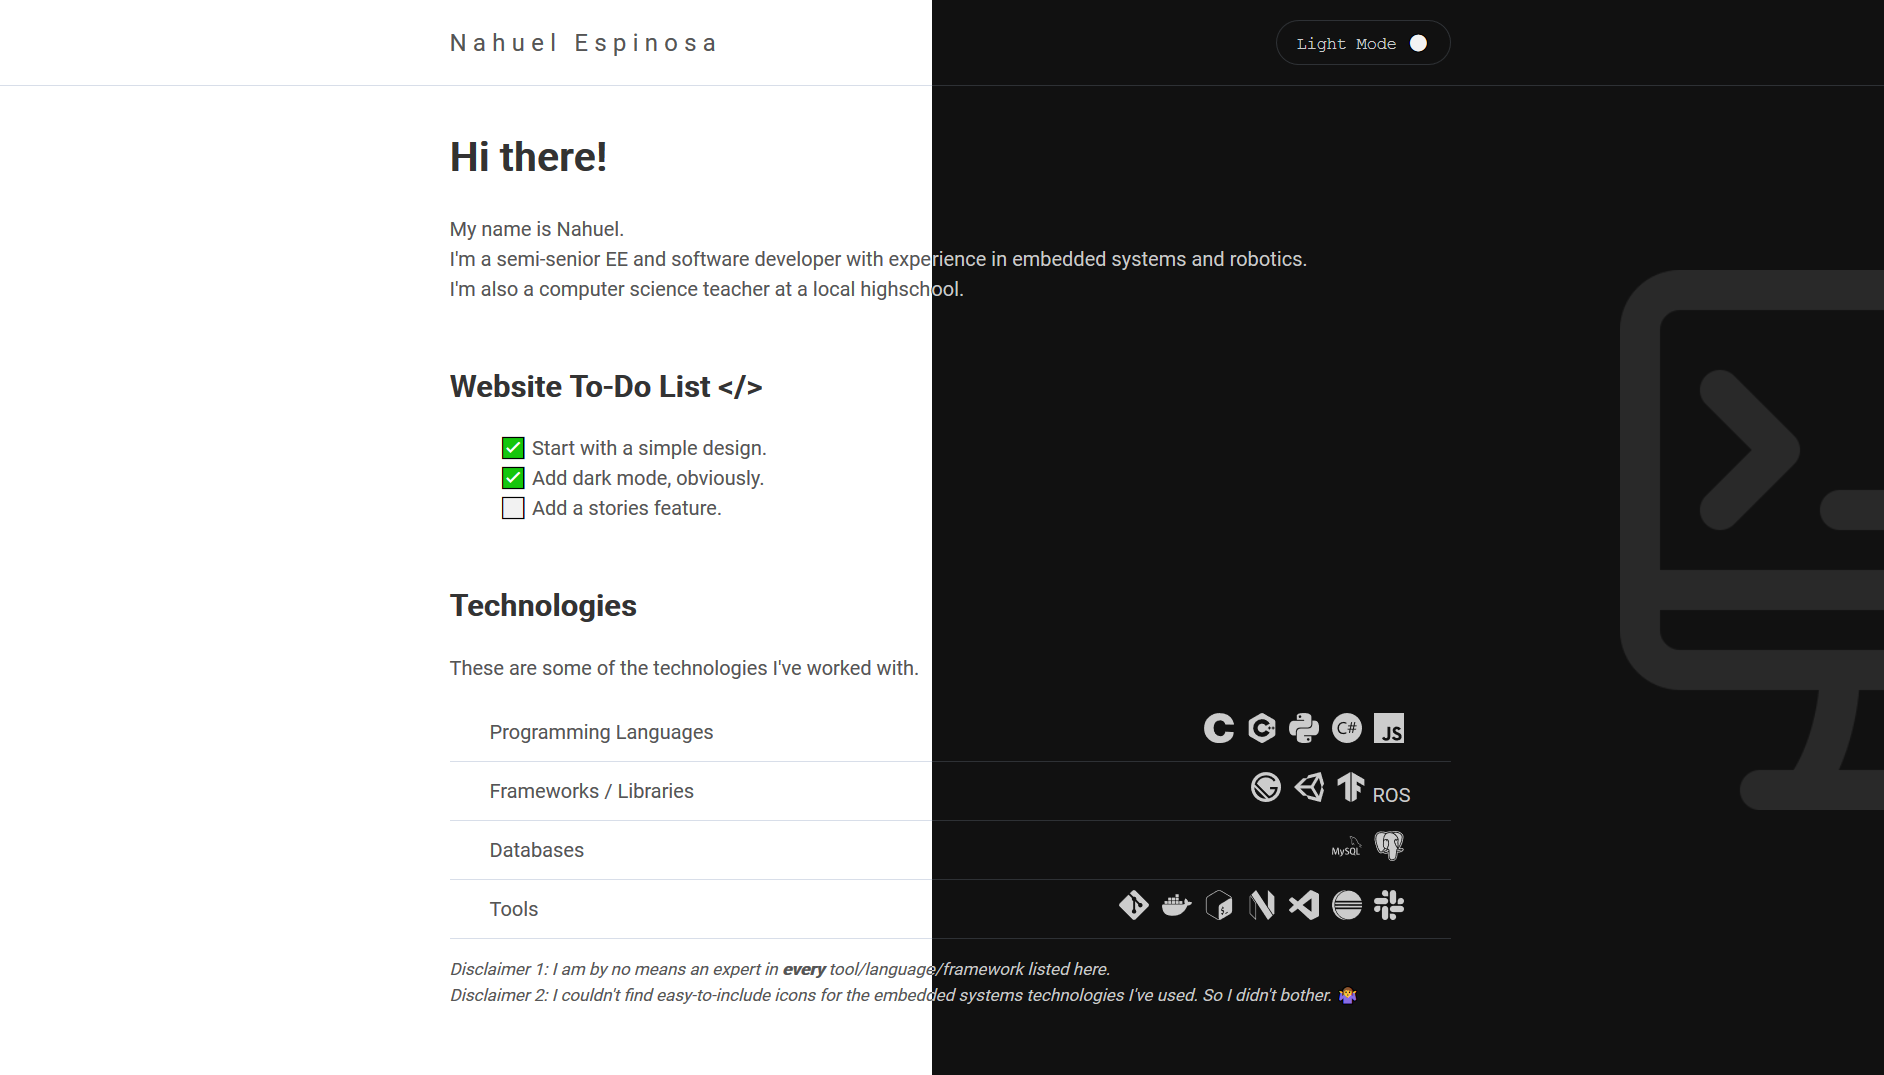
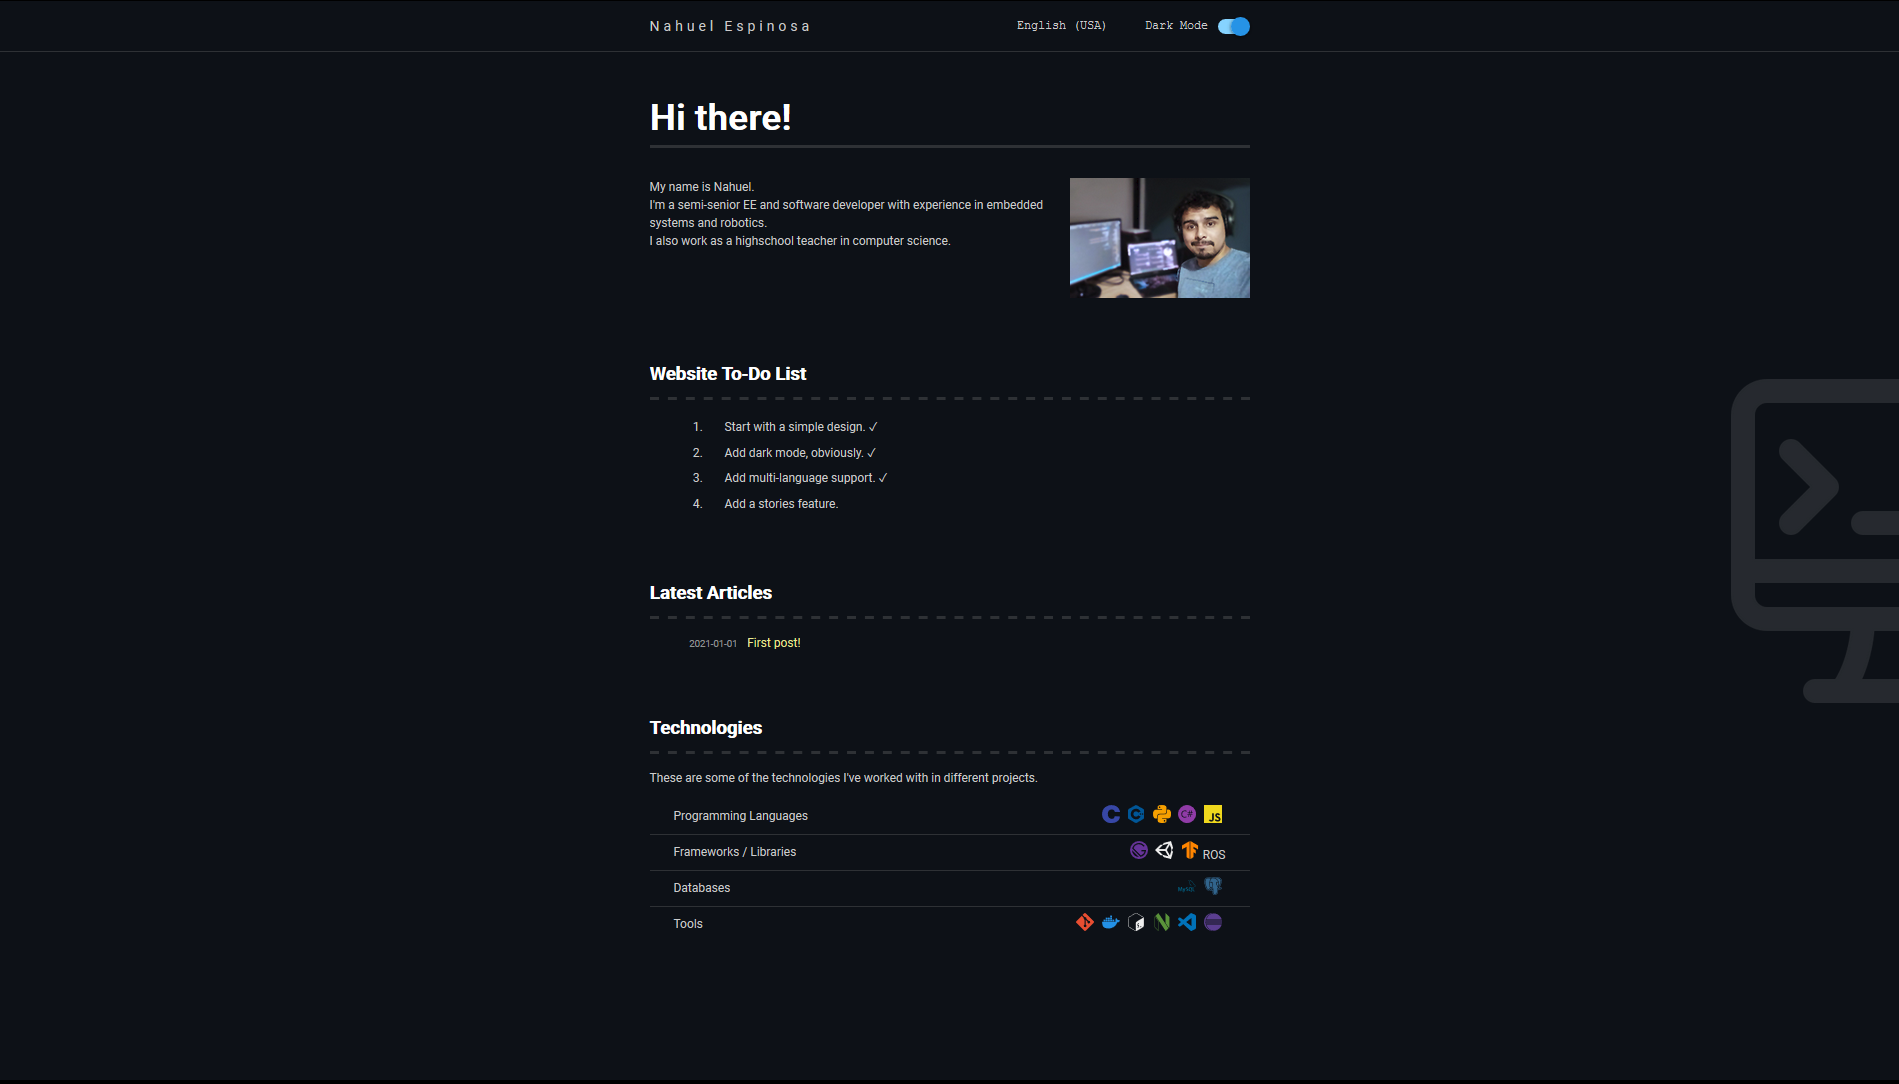
Add blog (#2)
* Add base files

* Minor adjustments

* Remove duplicates

* Fix after rebase

* Update site image

* Minor changes

* Last changes

diff --git a/src/pages/index.js b/src/pages/index.js
@@ -1,22 +1,44 @@
 import React from "react"
 import SEO from "react-seo-component"
+import { graphql, Link } from 'gatsby'
 import Style from "./index.module.css"
 import Layout from "../components/layout"
-import { SiC, SiCplusplus, SiPython, SiGit, SiGnubash, SiCsharp, SiGatsby, SiUnity, SiJavascript, SiNeovim, SiVisualstudiocode, SiEclipseide, SiDocker, SiMysql, SiPostgresql, SiTensorflow } from "react-icons/si"
+import * as Icons from "react-icons/si"
 import { useTranslation } from "react-i18next"
 
 import "../components/i18n"
 import { useSiteMetadata } from "../hooks/useSiteMetadata"
 
-export default () => {
+export const query = graphql
+`
+query SITE_INDEX_QUERY {
+  allMdx(
+    sort: {fields: [frontmatter___date], order: DESC},
+    filter: {frontmatter: {published: {eq: true}}}
+  ){
+    nodes {
+      id
+      frontmatter {
+        title
+        date(formatString: "YYYY-MM-DD")
+      }
+      fields {
+        slug
+      }
+    }
+  }
+}
+`
+
+export default ({ data }) => {
   const metadata = useSiteMetadata()
-  const { description, title, image, siteUrl, language, locale, twitterUser } = metadata
+  const { description, siteTitle, image, siteUrl, language, locale, twitterUser } = metadata
   const { t } = useTranslation("translations")
 
   return (
     <Layout data={metadata}>
       <SEO
-        title={title}
+        title={siteTitle}
         titleTemplate={t('Home')}
         description={description}
         image={`${siteUrl}${image}`}
@@ -42,6 +64,17 @@ export default () => {
           <li>{t("List.Item4")}</li>
         </ol>
       </section>
+      <section>
+        { data.allMdx.nodes.length > 0 && <h2>{t("Articles.Title")}</h2> }
+        <ul>
+          {data.allMdx.nodes.map(({ frontmatter, fields }) => (
+            <li>
+              <span className={Style.dateTag}>{frontmatter.date}</span>
+              <Link to={fields.slug}>{frontmatter.title}</Link>
+            </li>
+          ))}
+        </ul>
+      </section>
 
       <section>
         <h2>{t("Techs.Title")}</h2>
@@ -51,38 +84,38 @@ export default () => {
             <tr>
               <td>{t("Techs.Item1")}</td>
               <td>
-                <SiC color='#3747a6'/>
-                <SiCplusplus color='#005697'/>
-                <SiPython color='#f7a000'/>
-                <SiCsharp color='#903ba7'/>
-                <SiJavascript color='#efd81d'/>
+                <Icons.SiC color='#3747a6'/>
+                <Icons.SiCplusplus color='#005697'/>
+                <Icons.SiPython color='#f7a000'/>
+                <Icons.SiCsharp color='#903ba7'/>
+                <Icons.SiJavascript color='#efd81d'/>
               </td>
             </tr>
             <tr>
               <td>{t("Techs.Item2")}</td>
               <td>
-                <SiGatsby color='#663399'/>
-                <SiUnity/>
-                <SiTensorflow color='#ff8500'/>
+                <Icons.SiGatsby color='#663399'/>
+                <Icons.SiUnity/>
+                <Icons.SiTensorflow color='#ff8500'/>
                 ROS
               </td>
             </tr>
             <tr>
               <td>{t("Techs.Item3")}</td>
               <td>
-                <SiMysql color='#006488'/>
-                <SiPostgresql color='#31648c'/>
+                <Icons.SiMysql color='#006488'/>
+                <Icons.SiPostgresql color='#31648c'/>
               </td>
             </tr>
             <tr>
               <td>{t("Techs.Item4")}</td>
               <td>
-                <SiGit color='#e84e31'/>
-                <SiDocker color='#2391e6'/>
-                <SiGnubash/>
-                <SiNeovim color='#5a933a'/>
-                <SiVisualstudiocode color='#0072b9'/>
-                <SiEclipseide color='#5b3e90'/>
+                <Icons.SiGit color='#e84e31'/>
+                <Icons.SiDocker color='#2391e6'/>
+                <Icons.SiGnubash/>
+                <Icons.SiNeovim color='#5a933a'/>
+                <Icons.SiVisualstudiocode color='#0072b9'/>
+                <Icons.SiEclipseide color='#5b3e90'/>
               </td>
             </tr>
           </tbody>

diff --git a/src/templates/post.js b/src/templates/post.js
@@ -1,0 +1,56 @@
+import { graphql } from "gatsby"
+import { MDXRenderer } from "gatsby-plugin-mdx"
+import React from "react"
+import SEO from "react-seo-component"
+
+import Layout from "../components/layout"
+import Style from "./post.module.css"
+
+import { useSiteMetadata } from "../hooks/useSiteMetadata"
+
+export const query = graphql
+`
+query POST_BY_ID_QUERY($id: String!) {
+  mdx(
+    id: { eq: $id }
+  ){
+    body
+    frontmatter {
+      title
+      date(formatString: "MMMM Do, YYYY")
+    }
+    fields {
+      slug
+    }
+  }
+}
+`
+
+export default ({ data }) => {
+  const { frontmatter, body, fields } = data.mdx
+
+  const metadata = useSiteMetadata()
+  const { description, image, siteTitle, siteUrl, language, locale, twitterUser, author } = metadata
+
+  return (
+    <Layout data={metadata}>
+      <SEO
+        title={siteTitle}
+        titleTemplate={frontmatter.title}
+        description={description}
+        image={`${siteUrl}${image}`}
+        pathname={`${siteUrl}${fields.slug}`}
+        siteLanguage={language}
+        siteLocale={locale}
+        twitterUsername={twitterUser}
+        author={author}
+        article={true}
+        datePublished={frontmatter.date}
+        dateModified={frontmatter.date}
+      />
+      
+      <span className={Style.date}>{frontmatter.date}</span>
+      <MDXRenderer>{body}</MDXRenderer>
+    </Layout>
+  )
+}

diff --git a/gatsby-node.js b/gatsby-node.js
@@ -1,0 +1,52 @@
+const { createFilePath } = require(`gatsby-source-filesystem`);
+
+exports.onCreateNode = ({ node, actions, getNode }) => {
+  const { createNodeField } = actions
+
+  if (node.internal.type === `Mdx`) {
+    const value = createFilePath({ node, getNode })
+
+    createNodeField({
+      name: `slug`,
+      node,
+      value: `/posts${value}`,
+    })
+  }
+}
+
+const path = require("path")
+
+exports.createPages = async ({ graphql, actions, reporter }) => {
+  const { createPage } = actions
+
+  const result = await graphql
+  (`
+    query {
+      allMdx {
+        edges {
+          node {
+            id
+            fields {
+              slug
+            }
+          }
+        }
+      }
+    }
+  `)
+
+  if (result.errors) {
+      reporter.panicOnBuild('🚨  ERROR: Loading "createPages" query')
+  }
+
+  // Create blog post pages.
+  const posts = result.data.allMdx.edges
+
+  posts.forEach(({ node }, index) => {
+    createPage({
+      path: node.fields.slug,
+      component: path.resolve(`./src/templates/post.js`),
+      context: { id: node.id },
+    })
+  })
+}

diff --git a/gatsby-config.js b/gatsby-config.js
@@ -1,6 +1,6 @@
 module.exports = {
   siteMetadata: {
-    title: 'Nahuel Espinosa',
+    siteTitle: 'Nahuel Espinosa',
     description: 'Nahuel Espinosa is a semi-senior EE and software developer interested in computer science and related topics.',
     author: 'Nahuel Espinosa',
     image: '/site.png',
@@ -41,9 +41,32 @@ module.exports = {
     {
       resolve: 'gatsby-source-filesystem',
       options: {
+        name: 'posts',
+        path: `${__dirname}/content/posts`,
+      },
+    },
+    {
+      resolve: 'gatsby-source-filesystem',
+      options: {
         name: 'assets',
         path: `${__dirname}/static/`,
       }
+    },
+    `gatsby-plugin-sharp`,
+    `gatsby-remark-images`,
+    {
+      resolve: 'gatsby-plugin-mdx',
+      options: {
+        extensions: ['.mdx', '.md'],
+        gatsbyRemarkPlugins: [
+          {
+            resolve: `gatsby-remark-images`,
+            options: {
+              maxWidth: 1200,
+            },
+          },
+        ],
+      },
     },
     'gatsby-transformer-json',
     'gatsby-transformer-sharp',

diff --git a/src/components/header.js b/src/components/header.js
@@ -1,4 +1,5 @@
 import React from "react"
+import { Link } from 'gatsby'
 import Style from "./header.module.css"
 import LanguageButton from './language-button.js'
 import DarkToggle from "./dark-toggle.js"
@@ -8,7 +9,7 @@ import { withTranslation } from "react-i18next"
 const Header = ({ title, t }) => (
   <div id="header" className={Style.header}>
     <div className={Style.container}>
-      <span className={Style.title}>{title}</span>
+      <Link to="/" className={Style.title}>{title}</Link>
       <div className={Style.options}>
         <LanguageButton label={t("Language")} />
         <DarkToggle label={t("Header.Dark Mode")} />

diff --git a/src/pages/404.js b/src/pages/404.js
@@ -8,13 +8,13 @@ import { useSiteMetadata } from "../hooks/useSiteMetadata"
 
 const NotFoundPage = () => {
   const metadata = useSiteMetadata()
-  const { description, title, image, siteUrl, language, locale, twitterUser } = metadata
+  const { description, siteTitle, image, siteUrl, language, locale, twitterUser } = metadata
   const { t } = useTranslation("translations")
 
   return (
     <Layout data={metadata}>
       <SEO
-        title={title}
+        title={siteTitle}
         titleTemplate={t("Not Found.Title")}
         description={description}
         image={`${siteUrl}${image}`}

diff --git a/src/components/layout.js b/src/components/layout.js
@@ -4,11 +4,11 @@ import Main from './main'
 import Footer from './footer'
 
 const Layout = ({ children, data }) => {
-  const { title, location, links } = data
+  const { siteTitle, location, links } = data
 
   return (
     <div id="wrapper">    
-      <Header title={title}/>
+      <Header title={siteTitle}/>
       <Main>
         {children}
       </Main>

diff --git a/src/components/header.module.css b/src/components/header.module.css
@@ -4,6 +4,7 @@
   width: 100%;
   border-bottom: 1px solid var(--border-color);
   background-color: var(--background-color);
+  z-index: 2;
 }
 
 .container {
@@ -20,6 +21,8 @@
   letter-spacing: 5px;
   padding: 1em 0;
   white-space: nowrap;
+  color: var(--font-color);
+  text-decoration: none;
 }
 
 .options {

diff --git a/src/hooks/useSiteMetadata.js b/src/hooks/useSiteMetadata.js
@@ -6,7 +6,7 @@ export const useSiteMetadata = () => {
       query SITE_METADATA_QUERY {
         site {
           siteMetadata {
-            title
+            siteTitle
             description
             author
             image

diff --git a/src/pages/index.module.css b/src/pages/index.module.css
@@ -7,6 +7,12 @@
   overflow: auto;
 }
 
+.date-tag {
+  font-size: 0.8em;
+  padding: 1em;
+  opacity: 0.7;
+}
+
 .tasks li {
   padding: 5px 25px;
   margin-left: 35px;

diff --git a/src/styles/global.css b/src/styles/global.css
@@ -54,6 +54,7 @@ a {
 }
 
 a:hover {
+  color: var(--link-color);
   text-decoration: underline;
 }
 

diff --git a/src/templates/post.module.css b/src/templates/post.module.css
@@ -1,0 +1,5 @@
+.date {
+    float: right;
+    margin-top: 1em;
+    font-size: 0.9em;
+}
